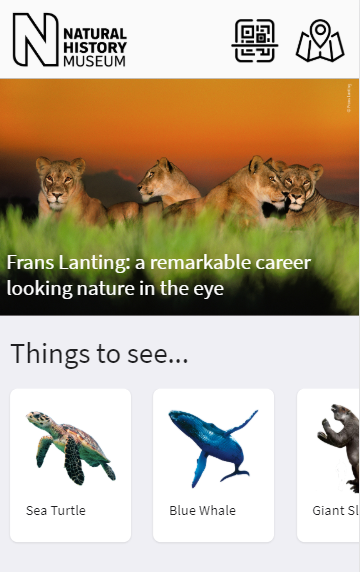
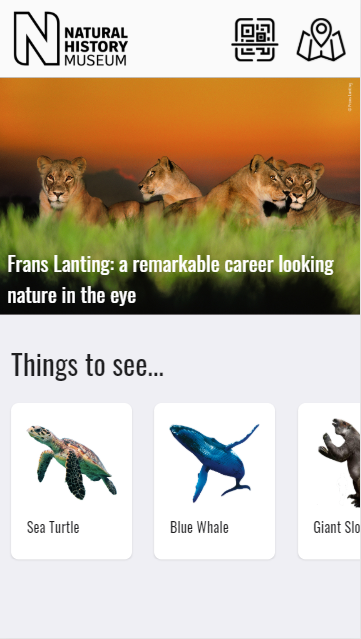
changed font

diff --git a/index.html b/index.html
@@ -9,7 +9,7 @@
     <link rel="stylesheet" href="https://unpkg.com/onsenui/css/onsenui.css">
     <link rel="stylesheet" href="https://unpkg.com/onsenui/css/onsen-css-components.min.css">
     <link rel="stylesheet" href="https://unpkg.com/flickity@2/dist/flickity.min.css">
-    <link href="https://fonts.googleapis.com/css?family=Source+Sans+Pro&display=swap" rel="stylesheet">
+    <link href="https://fonts.googleapis.com/css?family=Oswald&display=swap" rel="stylesheet">
     <script src="https://unpkg.com/onsenui/js/onsenui.min.js"></script>
     <script src="https://unpkg.com/jquery/dist/jquery.min.js"></script>
     <script src="https://unpkg.com/flickity@2/dist/flickity.pkgd.min.js"></script>
@@ -18,7 +18,8 @@
 
 <style>
     * {
-        font-family: 'Source Sans Pro', sans-serif !important;
+        font-family: 'Oswald', sans-serif !important;
+        font-weight: 100 !important;
     }
 
     a {
